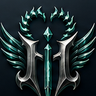
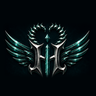
feat: melhora SEO e descoberta do site
- hreflang com URLs completas e x-default nas quatro páginas.
- sitemap.xml com as páginas e versões de idioma; robots.txt.
- Dados estruturados (schema.org Organization + WebSite) nas páginas
  iniciais em português e inglês.
- Ícones novos a partir do avatar (favicon 32/48, apple-touch, 192, 512),
  site.webmanifest e meta theme-color.
- Página 404 bilíngue.
- CLAUDE.md: regras de SEO; README: estrutura atualizada.

Claude-Session: https://claude.ai/code/session_01JBCLKsaCgQEHKsk127D4vb

diff --git a/index.html b/index.html
@@ -22,13 +22,68 @@
   <meta property="og:locale:alternate" content="en_US">
   <meta name="twitter:card" content="summary_large_image">
 
-  <!-- Ícones provisórios, recortados da imagem da marca.
-       TODO: substituir por uma versão simplificada em SVG. -->
-  <link rel="alternate" hreflang="pt-BR" href="./">
-  <link rel="alternate" hreflang="en" href="en/">
+  <link rel="alternate" hreflang="pt-BR" href="https://inflaminghearts.com.br/">
+  <link rel="alternate" hreflang="en" href="https://inflaminghearts.com.br/en/">
+  <link rel="alternate" hreflang="x-default" href="https://inflaminghearts.com.br/">
 
-  <link rel="icon" href="assets/icons/favicon-32.png" type="image/png" sizes="32x32">
-  <link rel="apple-touch-icon" href="assets/icons/apple-touch-icon.png">
+  <!-- Ícones (a partir do avatar da marca). TODO: versão simplificada em SVG. -->
+  <link rel="icon" href="/assets/icons/favicon-48.png" type="image/png" sizes="48x48">
+  <link rel="icon" href="/assets/icons/favicon-32.png" type="image/png" sizes="32x32">
+  <link rel="apple-touch-icon" href="/assets/icons/apple-touch-icon.png">
+  <link rel="manifest" href="/site.webmanifest">
+  <meta name="theme-color" content="#1B1F24">
+
+  <!-- Dados estruturados (schema.org): ajudam buscadores a entender quem é a empresa. -->
+  <script type="application/ld+json">
+  {
+    "@context": "https://schema.org",
+    "@graph": [
+      {
+        "@type": "Organization",
+        "@id": "https://inflaminghearts.com.br/#organizacao",
+        "name": "Inflaming Hearts",
+        "legalName": "INFLAMING HEARTS SOFTWARE, ENTRETENIMENTO E EDUCACAO LTDA",
+        "url": "https://inflaminghearts.com.br/",
+        "logo": "https://inflaminghearts.com.br/assets/img/logo-quadrado-512.png",
+        "image": "https://inflaminghearts.com.br/assets/img/og-image.jpg",
+        "description": "Empresa brasileira de jogos autorais, desenvolvimento de software e formação em tecnologia, com atuação em coprodução de editais de cultura.",
+        "foundingDate": "2022-12-07",
+        "taxID": "48.835.868/0001-38",
+        "address": {
+          "@type": "PostalAddress",
+          "addressLocality": "Barueri",
+          "addressRegion": "SP",
+          "addressCountry": "BR"
+        },
+        "knowsAbout": [
+          "Game development",
+          "Co-development",
+          "Video games",
+          "Game jams",
+          "Software development",
+          "Technology education"
+        ],
+        "sameAs": [
+          "https://www.instagram.com/inflaming.hearts/",
+          "https://github.com/inflaminghearts"
+        ]
+      },
+      {
+        "@type": "WebSite",
+        "@id": "https://inflaminghearts.com.br/#site",
+        "name": "Inflaming Hearts",
+        "url": "https://inflaminghearts.com.br/",
+        "inLanguage": [
+          "pt-BR",
+          "en"
+        ],
+        "publisher": {
+          "@id": "https://inflaminghearts.com.br/#organizacao"
+        }
+      }
+    ]
+  }
+  </script>
 
   <!-- Fontes locais: Cinzel (títulos) + Inter (texto) -->
   <link rel="stylesheet" href="css/fontes.css">

diff --git a/en/index.html b/en/index.html
@@ -24,11 +24,68 @@
   <meta property="og:locale:alternate" content="pt_BR">
   <meta name="twitter:card" content="summary_large_image">
 
-  <link rel="alternate" hreflang="pt-BR" href="../">
-  <link rel="alternate" hreflang="en" href="./">
+  <link rel="alternate" hreflang="pt-BR" href="https://inflaminghearts.com.br/">
+  <link rel="alternate" hreflang="en" href="https://inflaminghearts.com.br/en/">
+  <link rel="alternate" hreflang="x-default" href="https://inflaminghearts.com.br/">
 
-  <link rel="icon" href="../assets/icons/favicon-32.png" type="image/png" sizes="32x32">
-  <link rel="apple-touch-icon" href="../assets/icons/apple-touch-icon.png">
+  <!-- Ícones (a partir do avatar da marca). TODO: versão simplificada em SVG. -->
+  <link rel="icon" href="/assets/icons/favicon-48.png" type="image/png" sizes="48x48">
+  <link rel="icon" href="/assets/icons/favicon-32.png" type="image/png" sizes="32x32">
+  <link rel="apple-touch-icon" href="/assets/icons/apple-touch-icon.png">
+  <link rel="manifest" href="/site.webmanifest">
+  <meta name="theme-color" content="#1B1F24">
+
+  <!-- Dados estruturados (schema.org): ajudam buscadores a entender quem é a empresa. -->
+  <script type="application/ld+json">
+  {
+    "@context": "https://schema.org",
+    "@graph": [
+      {
+        "@type": "Organization",
+        "@id": "https://inflaminghearts.com.br/#organizacao",
+        "name": "Inflaming Hearts",
+        "legalName": "INFLAMING HEARTS SOFTWARE, ENTRETENIMENTO E EDUCACAO LTDA",
+        "url": "https://inflaminghearts.com.br/",
+        "logo": "https://inflaminghearts.com.br/assets/img/logo-quadrado-512.png",
+        "image": "https://inflaminghearts.com.br/assets/img/og-image.jpg",
+        "description": "Indie game studio from Brazil making original games and co-developing games with other studios.",
+        "foundingDate": "2022-12-07",
+        "taxID": "48.835.868/0001-38",
+        "address": {
+          "@type": "PostalAddress",
+          "addressLocality": "Barueri",
+          "addressRegion": "SP",
+          "addressCountry": "BR"
+        },
+        "knowsAbout": [
+          "Game development",
+          "Co-development",
+          "Video games",
+          "Game jams",
+          "Software development",
+          "Technology education"
+        ],
+        "sameAs": [
+          "https://www.instagram.com/inflaming.hearts/",
+          "https://github.com/inflaminghearts"
+        ]
+      },
+      {
+        "@type": "WebSite",
+        "@id": "https://inflaminghearts.com.br/#site",
+        "name": "Inflaming Hearts",
+        "url": "https://inflaminghearts.com.br/",
+        "inLanguage": [
+          "pt-BR",
+          "en"
+        ],
+        "publisher": {
+          "@id": "https://inflaminghearts.com.br/#organizacao"
+        }
+      }
+    ]
+  }
+  </script>
 
   <!-- Fontes locais: Cinzel (títulos) + Inter (texto) -->
   <link rel="stylesheet" href="../css/fontes.css">

diff --git a/404.html b/404.html
@@ -1,0 +1,56 @@
+<!DOCTYPE html>
+<html lang="pt-BR">
+<head>
+  <meta charset="utf-8">
+  <meta name="viewport" content="width=device-width, initial-scale=1">
+
+  <!-- Página mostrada pelo GitHub Pages quando um endereço não existe.
+       Usa caminhos absolutos (/...) porque pode ser exibida em qualquer endereço. -->
+  <title>Página não encontrada | Inflaming Hearts</title>
+  <meta name="robots" content="noindex">
+
+  <!-- Ícones (a partir do avatar da marca). TODO: versão simplificada em SVG. -->
+  <link rel="icon" href="/assets/icons/favicon-48.png" type="image/png" sizes="48x48">
+  <link rel="icon" href="/assets/icons/favicon-32.png" type="image/png" sizes="32x32">
+  <link rel="apple-touch-icon" href="/assets/icons/apple-touch-icon.png">
+  <meta name="theme-color" content="#1B1F24">
+
+  <!-- Fontes locais: Cinzel (títulos) + Inter (texto) -->
+  <link rel="stylesheet" href="/css/fontes.css">
+
+  <link rel="stylesheet" href="/css/style.css">
+</head>
+<body>
+
+  <header class="site-header">
+    <div class="container site-header__inner">
+      <a class="site-header__brand" href="/">
+        <img src="/assets/img/simbolo-96.png" alt="" width="36" height="36">
+        <span class="site-header__nome">Inflaming Hearts</span>
+      </a>
+    </div>
+  </header>
+
+  <main>
+    <section class="section section--hero" aria-labelledby="erro-titulo">
+      <div class="container hero">
+        <h1 id="erro-titulo" class="hero__titulo">Página não encontrada</h1>
+        <p class="hero__apoio">O endereço que você tentou abrir não existe ou mudou de lugar.</p>
+        <p class="hero__apoio" lang="en">Page not found. The address you tried does not exist or has moved.</p>
+        <div class="botoes">
+          <a class="botao" href="/">Ir para o início</a>
+          <a class="botao" href="/en/" lang="en">Go to the English site</a>
+        </div>
+      </div>
+    </section>
+  </main>
+
+  <footer class="site-footer">
+    <div class="container">
+      <p>© <span data-ano-atual>2026</span> Inflaming Hearts</p>
+    </div>
+  </footer>
+
+  <script src="/js/ano.js" defer></script>
+</body>
+</html>

diff --git a/en/press/index.html b/en/press/index.html
@@ -23,11 +23,16 @@
   <meta property="og:locale:alternate" content="pt_BR">
   <meta name="twitter:card" content="summary_large_image">
 
-  <link rel="alternate" hreflang="pt-BR" href="../../imprensa/">
-  <link rel="alternate" hreflang="en" href="./">
+  <link rel="alternate" hreflang="pt-BR" href="https://inflaminghearts.com.br/imprensa/">
+  <link rel="alternate" hreflang="en" href="https://inflaminghearts.com.br/en/press/">
+  <link rel="alternate" hreflang="x-default" href="https://inflaminghearts.com.br/imprensa/">
 
-  <link rel="icon" href="../../assets/icons/favicon-32.png" type="image/png" sizes="32x32">
-  <link rel="apple-touch-icon" href="../../assets/icons/apple-touch-icon.png">
+  <!-- Ícones (a partir do avatar da marca). TODO: versão simplificada em SVG. -->
+  <link rel="icon" href="/assets/icons/favicon-48.png" type="image/png" sizes="48x48">
+  <link rel="icon" href="/assets/icons/favicon-32.png" type="image/png" sizes="32x32">
+  <link rel="apple-touch-icon" href="/assets/icons/apple-touch-icon.png">
+  <link rel="manifest" href="/site.webmanifest">
+  <meta name="theme-color" content="#1B1F24">
 
   <!-- Fontes locais: Cinzel (títulos) + Inter (texto) -->
   <link rel="stylesheet" href="../../css/fontes.css">

diff --git a/imprensa/index.html b/imprensa/index.html
@@ -23,11 +23,16 @@
   <meta property="og:locale:alternate" content="en_US">
   <meta name="twitter:card" content="summary_large_image">
 
-  <link rel="alternate" hreflang="pt-BR" href="./">
-  <link rel="alternate" hreflang="en" href="../en/press/">
+  <link rel="alternate" hreflang="pt-BR" href="https://inflaminghearts.com.br/imprensa/">
+  <link rel="alternate" hreflang="en" href="https://inflaminghearts.com.br/en/press/">
+  <link rel="alternate" hreflang="x-default" href="https://inflaminghearts.com.br/imprensa/">
 
-  <link rel="icon" href="../assets/icons/favicon-32.png" type="image/png" sizes="32x32">
-  <link rel="apple-touch-icon" href="../assets/icons/apple-touch-icon.png">
+  <!-- Ícones (a partir do avatar da marca). TODO: versão simplificada em SVG. -->
+  <link rel="icon" href="/assets/icons/favicon-48.png" type="image/png" sizes="48x48">
+  <link rel="icon" href="/assets/icons/favicon-32.png" type="image/png" sizes="32x32">
+  <link rel="apple-touch-icon" href="/assets/icons/apple-touch-icon.png">
+  <link rel="manifest" href="/site.webmanifest">
+  <meta name="theme-color" content="#1B1F24">
 
   <!-- Fontes locais: Cinzel (títulos) + Inter (texto) -->
   <link rel="stylesheet" href="../css/fontes.css">

diff --git a/css/style.css b/css/style.css
@@ -317,6 +317,14 @@ img {
   color: var(--fundo);
 }
 
+/* Grupo de botões lado a lado */
+.botoes {
+  display: flex;
+  flex-wrap: wrap;
+  justify-content: center;
+  gap: var(--espaco-2);
+}
+
 /* Contato */
 .section--contato {
   text-align: center;

diff --git a/CLAUDE.md b/CLAUDE.md
@@ -41,6 +41,16 @@ Publicado via GitHub Pages em https://inflaminghearts.com.br.
 - Domínio próprio: `https://inflaminghearts.com.br/` (arquivo `CNAME` na raiz, criado pelo GitHub Pages; não apagar).
   As URLs absolutas (Open Graph e canonical) usam esse domínio.
 
+## SEO e descoberta
+- `sitemap.xml` lista todas as páginas com as versões de idioma. **Ao criar uma página nova, adicioná-la ao sitemap**
+  e atualizar o `<lastmod>`. `robots.txt` aponta para o sitemap.
+- `hreflang` sempre com URLs completas, nos dois sentidos, mais `x-default` (versão em português).
+- Dados estruturados (JSON-LD, schema.org `Organization` + `WebSite`) nas páginas iniciais em português e inglês.
+  Se mudar nome, endereço, logo ou redes da empresa, atualizar também ali.
+- Ícones em `assets/icons/` (gerados a partir do avatar), `site.webmanifest` e `meta theme-color` em todas as páginas.
+- `404.html`: página de erro bilíngue, com caminhos absolutos (`/css/...`) e `noindex`.
+- Cada página precisa de `<title>` e `<meta name="description">` próprios e específicos.
+
 ## Acessibilidade
 - Texto sobre o fundo `#1B1F24`: usar apenas branco, turquesa, turquesa clara ou verde-água.
   `#145C4B` e `#0F3B52` são só para fundos e bordas.

diff --git a/README.md b/README.md
@@ -27,6 +27,10 @@ homepage/
 │   └── ano.js        Ano automático no rodapé
 ├── CLAUDE.md         Regras do projeto (lidas pelo Claude)
 ├── CNAME             Domínio próprio do GitHub Pages (não apagar)
+├── 404.html          Página de erro (endereço não encontrado)
+├── robots.txt        Regras para buscadores
+├── sitemap.xml       Mapa do site para buscadores
+├── site.webmanifest  Nome, cores e ícones do site
 └── .nojekyll         Faz o GitHub Pages publicar os arquivos como estão
 ```
 
